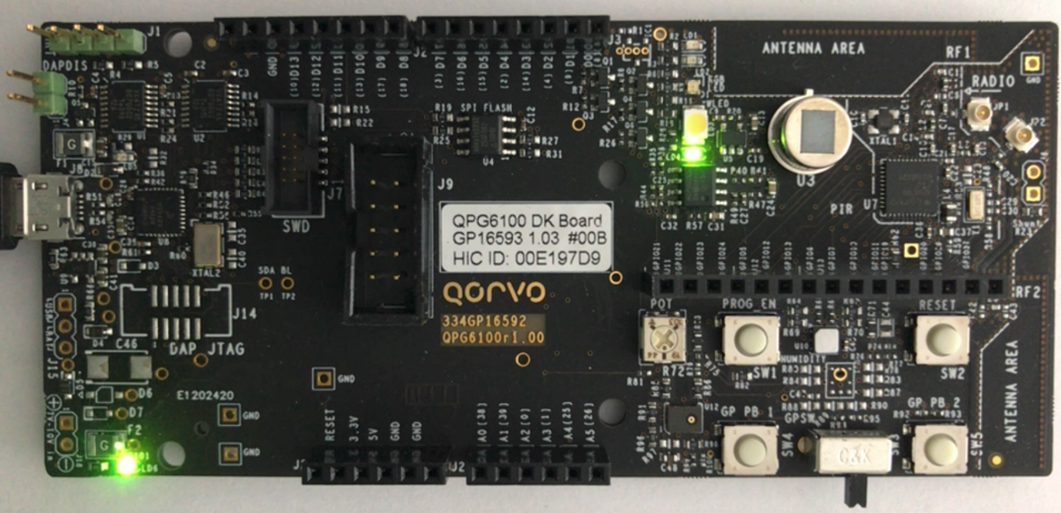
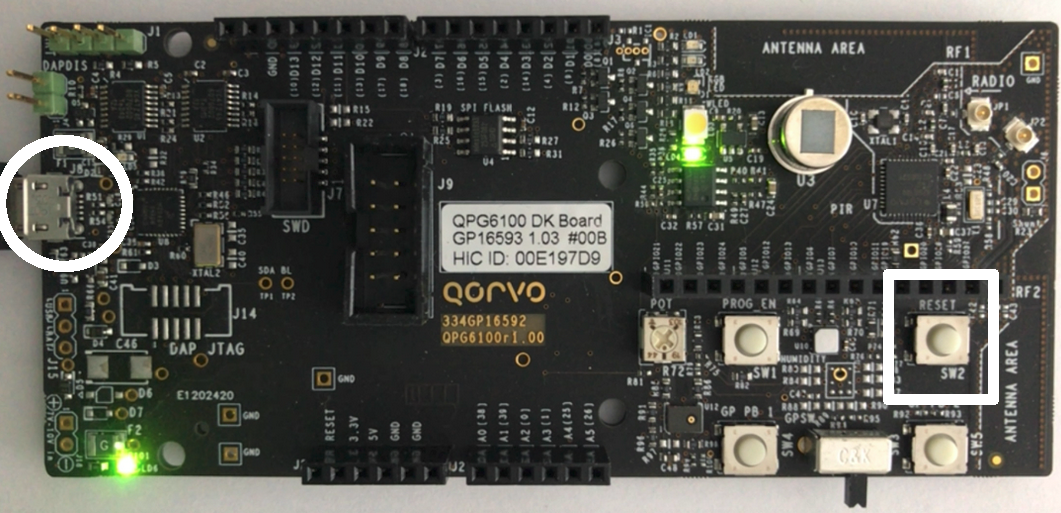
Improve Qorvo CHIP EVK Quick start guide

Changed region(s): [[0.8087, 0.499, 0.9642, 0.8109], [0.0, 0.2495, 0.1244, 0.5302]]

diff --git a/examples/evk/README.md b/examples/evk/README.md
@@ -2,13 +2,14 @@
 
 # Table of Contents
 * [Overview](#overview)
-* [QPG6100 DK board setup](#qpg6100-dk-board-setup)
+* [Required hardware](#required-hardware)
+	* [Computer and QPG6100 DK board setup](#computer-and-qpg6100-dk-board-setup)
+	* [Install the Android™ CHIPTool application](#install-the-android™-chiptool-application)
 * [QPG7015M Border Router setup](#qpg7015m-border-router-setup)
 	* [Connect Android mobile device to the Wi-Fi access point](#connect-android-mobile-device-to-the-wi-fi-access-point)
 	* [Form a new Thread network](#form-a-new-thread-network)
-* [Install the Android CHIPTool application](#install-the-android-chiptool-application)
 * [Provision the QPG6100 DK board using CHIPTool](#provision-the-qpg6100-dk-board-using-chiptool)
-	* [Open CHIPTool on the Android smartphone.](#open-chiptool-on-the-android-smartphone.)
+	* [Open CHIPTool on the Android Smartphone.](#open-chiptool-on-the-android-smartphone.)
 	* [Retrieve the QR code URL](#retrieve-the-qr-code-url)
 	* [Display the QR code](#display-the-qr-code)
 	* [Scan the QR code](#scan-the-qr-code)
@@ -32,25 +33,33 @@ The CHIP Evaluation Kit contains the following hardware:
 * QPG6100 DK board, flashed with a CHIP Light application.
 * QR code pointing to the quickstart guide
 
-Additionally, an Android device to run the CHIPTool Smartphone Application is required.
-
 This Evaluation kit will allow you to control a CHIP Light device implemented
-on the QPG6100 DK board using a WiFi connected Android device via the QPG7015M
+on the QPG6100 DK board using a WiFi connected Android™ device via the QPG7015M
 DK that implements a Thread Border Router:
 
-1. The smartphone scans the Light device's QR code
+1. The Smartphone scans the Light device's QR code
 2. A secure Bluetooth Low Energy connection is setup using the QR code information
 3. Thread network credentials are passed to the QPG6100 Light device
 4. The CHIP Light device joins the Thread network
-5. The smartphone can now communicate via IP over the QPG7015M based Wi-Fi-Thread router, the Light can be controlled by the smartphone
+5. The Smartphone can now communicate via IP over the QPG7015M based Wi-Fi-Thread router, the Light can be controlled by the Smartphone
 
 ![Qorvo CHIP demo](./imgs/chip_demo.png "Qorvo CHIP demo")
 
-## QPG6100 DK board setup
+## Required hardware
 
-Connect the QPG6100 DK board to a laptop.
+Next to the CHIP Evaluation Kit, the user has to obtain the following items:
+
+* An Android device to run the CHIPTool Smartphone Application.
+* A personal computer (Windows/Linux/Mac) with PuTTY (or an equivalent serial terminal tool) installed and a free USB port.
+
+### Computer and QPG6100 DK board setup
+
+Use the supplied micro USB cable to connect the QPG6100DK board's micro USB connector (marked on the photo with a white circle) to a USB port of the computer.
 
 ![Power QPG6100 DK](./imgs/qpg6100_power.png "Power QPG6100 DK")
+
+When the QPG6100DK board is connected to a computer, it will appear as a USB serial port device. The Light application will
+send logging messages to this serial port.
 
 To inspect the serial logging of the Light Application running on the QPG6100,
 use a serial terminal such as [PuTTY](https://www.chiark.greenend.org.uk/~sgtatham/putty/latest.html).
@@ -60,12 +69,22 @@ The serial logging will be needed later to commission the device.
 
 ![Putty](./imgs/putty.png "PuTTY")
 
+### Install the Android™ CHIPTool application
+
+You can [download a CHIPTool application build from this GitHub repository](./apk/app-debug-arm64.apk), open it on an Android Smartphone to install it.
+Note: You may need to grant your web browser permission to install applications. You can do this via 'Apps and notifications' -> application name (e.g. Firefox) -> Allow installation of unknown apps (or similar, depending on the Android version)
+
+Note that the CHIPTool Android application is a development tool developed and maintained within the CHIP community, its features are limited and do not represent a final product.
+
+![CHIPTool](./imgs/CHIPtool.png "https://github.com/Qorvo/qpg-connectedhomeip/blob/master/examples/evk/apk")
+
+As development is still ongoing on both tooling and application side, the version of the Android CHIPTool application and the application running on the QPG6100 need to be aligned. Therefore only make use of the binaries / versions that are being referred to in this guide.
 
 ## QPG7015M Border Router setup
 
 * Ensure the included SD-Card is properly inserted
 * Ensure the QPG7015M is **plugged in the orientation** [shown on the photo](./imgs/qpg7015m_power.png) onto the Raspberry Pi 4.
-* Connect the included USB-C power supply directly to the Raspberry Pi 4 board.
+* Connect the included USB-C power supply directly to the Raspberry Pi 4 board (marked by the white arrow on the photo). The USB-C connector on the QPG7015M radio board cannot be used for powering the Raspberry Pi.
 
 Note: [Properly shut down the raspberry pi](#shutting-down-the-raspberry-pi) before turning off power to the device.
 
@@ -84,7 +103,9 @@ Visit the OT Border Router configuration page (only available when connected to 
 
 ![http://192.168.2.2/](./imgs/thread_network.png "http://192.168.2.2/ (OT Border Router setup) ")
 
-Navigate to ‘Form’ via the menu on the left.
+Note that the icons do not load if the Smartphone is only connected to the Borderrouter-AP WiFi. When there is no active (e.g. 3G) internet connection available, text descriptions like 'add_circle_outline' will be displayed instead of icons and it can take up to 2 minutes to load the webpage. 
+
+Navigate to ‘Form’ via the menu on the left. If the menu is not displayed click 'Home' in the top left first.
 
 ![Form1](./imgs/form1.png "form1")
 
@@ -100,32 +121,30 @@ Confirm that you want to form a network.
 
 ![Form4](./imgs/form4.png "form4")
 
-## Install the Android CHIPTool application
-
-You can [download a CHIPTool application build from this GitHub repository](./apk/app-debug-arm64.apk), open it on an Android smartphone to install it.
-
-![CHIPTool](./imgs/CHIPtool.png "https://github.com/Qorvo/qpg-connectedhomeip/blob/master/examples/evk/apk")
-
-As development is still ongoing on both tooling and application side, the version of the .apk and the application build need to be aligned.
-The combination stored here is tested to work.
 
 ## Provision the QPG6100 DK board using CHIPTool
 
 The QPG6100 DK provided with this kit ships ready to be commissioned. If you already commissioned the device, [perform a factory reset](#qpg6100-dk-board-factory-reset) first.
 
-### Open CHIPTool on the Android smartphone.
+### Open CHIPTool on the Android Smartphone.
 
 ![Open CHIPTool](./imgs/chiptool-mainmenu.png "CHIPTool main menu")
 
 ### Retrieve the QR code URL
 
-In the PuTTY application showing the serial output of the QPG6100 DK, locate and highlight the URL, the selected text will be copied into the copy/paste buffer.
+- Recall the PuTTY application showing the serial output of the QPG6100 DK
+
+- Push the reset button on the QPG6100DK board (marked with a white rectangle in the photo) to have the device show its start-up messages again.
+
+![Power QPG6100 DK](./imgs/qpg6100_power.png "Power QPG6100 DK")
+
+- Locate and highlight (using the mouse) the URL that is displayed. The selected text will be copied into the copy/paste buffer.
 
 ![Highlight the URL](./imgs/qr-url.png "PuTTY showing the URL")
 
 ### Display the QR code
 
-Open a web browser and navigate to the URL.  The URL points to a website that generates the required QR code to commission the device with.
+Open a web browser and navigate to the URL by pasting it in the address bar.  The URL points to a website that generates the required QR code to commission the device with.
 
 ### Scan the QR code
 
@@ -137,6 +156,7 @@ The network should appear, click "save network".
 
 The message "provisioning completed" appears, and a slider and on/off controls are shown.
 
+Note: If the CHIPTool application crashes, disable Bluetooth on the phone, then re-enable it again before retrying. You can also try killing all Apps running in the background using Android task manager.
 
 ### Operate the light
 
@@ -150,12 +170,14 @@ To avoid file corruption on the Raspberry Pi computer, you need to properly shut
 
 1. Connect your laptop to the BorderRouter-AP network (password `12345678`).
 2. Use a SSH client (like PuTTY) to log in to the Raspberry Pi computer:
-   - ip address `192.168.2.2`
-   - username `pi`
-   - password `raspberry`
-3. issue the command `sudo halt`
+   - Enter the ip address `192.168.2.2` and click `Open`.
+   - Click `Accept` in the pop-up window to accept the unknown host key (if this is the first time connecting).
+   - At the `login as:` prompt, enter `pi`
+   - At the `pi@192.168.2.2's password:` prompt, enter  `raspberry` (note that the password is not echoed back when typing)
+3. Enter `sudo halt` and press ENTER.
 4. The Raspberry Pi will disconnect the SSH session and shut down.
 
+![PuTTY to connect to ssh](./imgs/putty-ip.png "PuTTY connect ssh")
 
 ## Factory Reset
 
